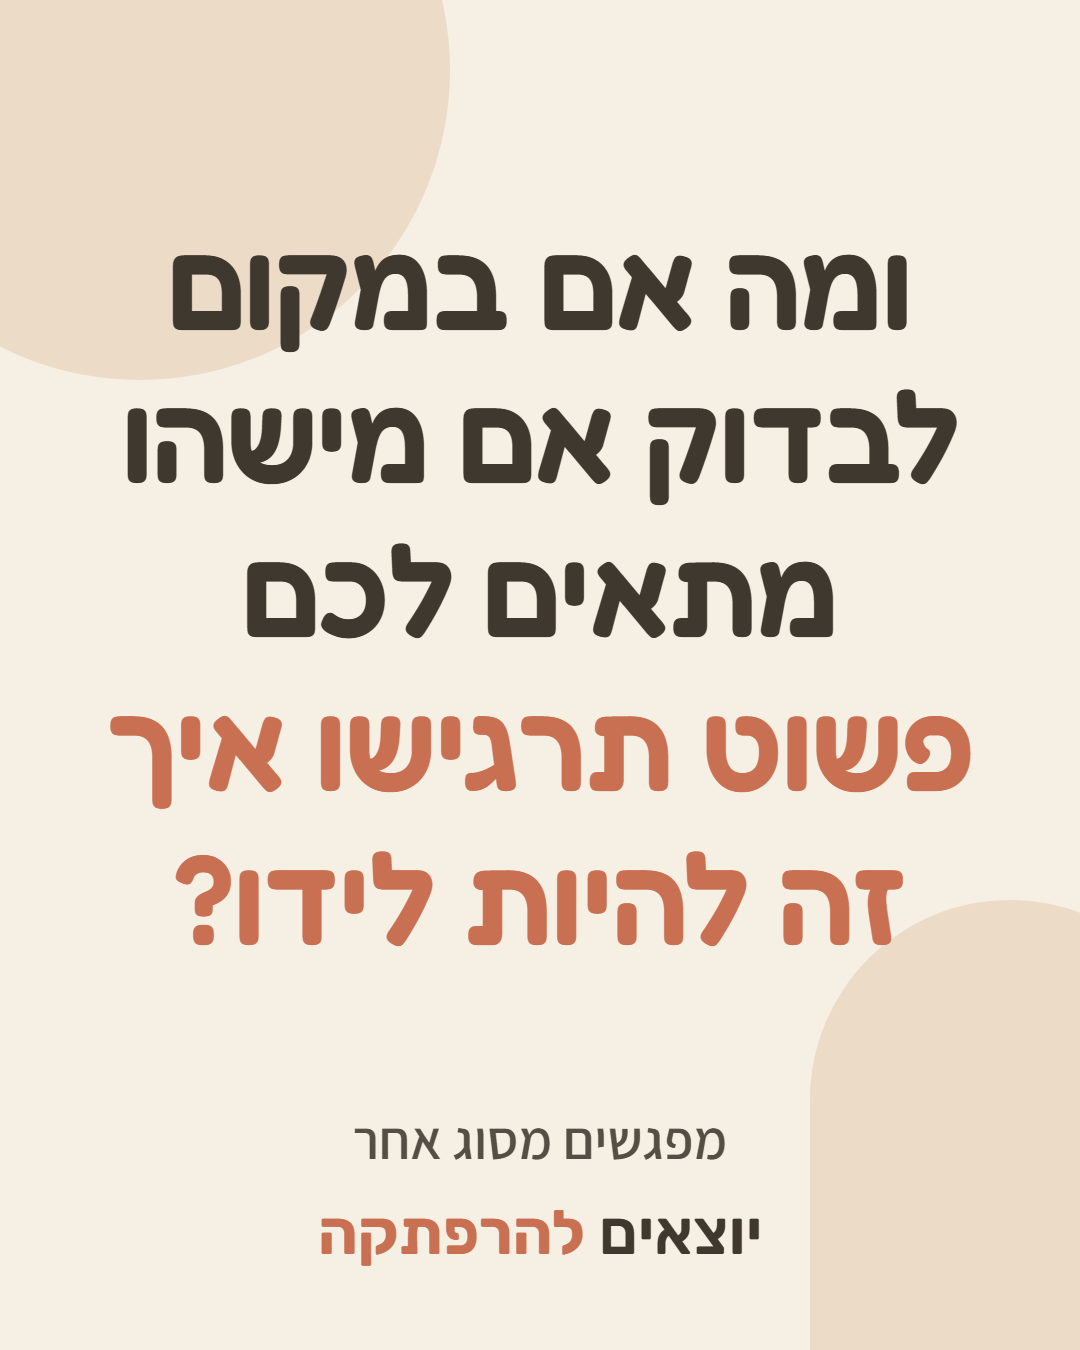
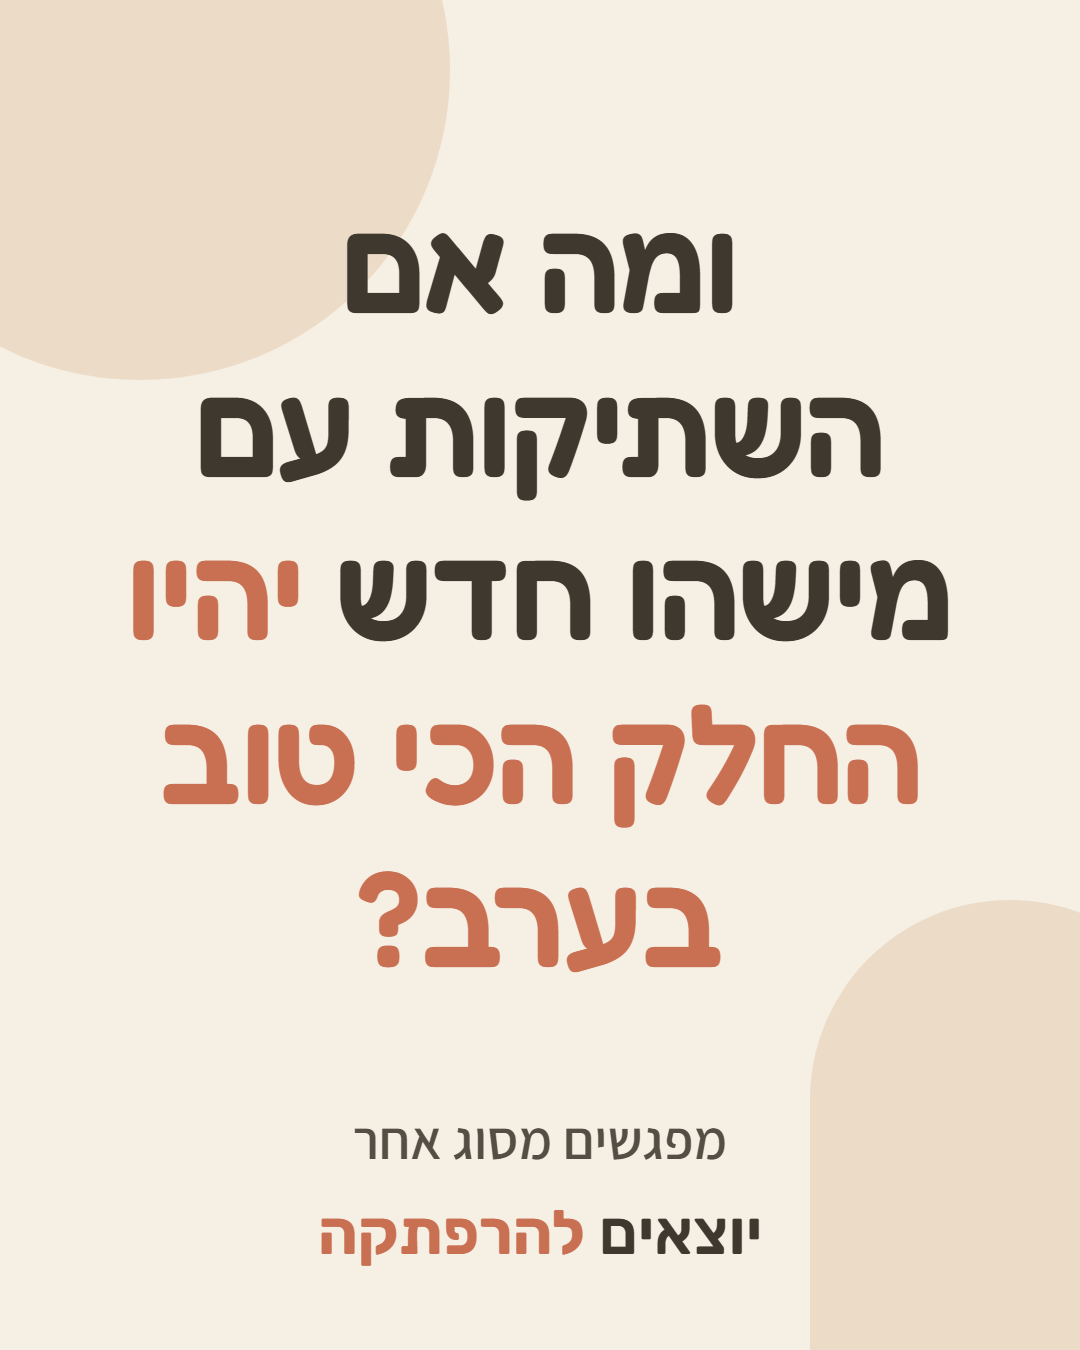
ads: ניסוח חדש ל-12 מודעות (18, 25, 29, 30, 32, 33, 36, 38, 39, 41, 45, 50), אותם מספרים

Changed region(s): [[0.0917, 0.4044, 0.9167, 0.7156], [0.0917, 0.1556, 0.8861, 0.3733]]

diff --git a/CLAUDE.md b/CLAUDE.md
@@ -9,7 +9,7 @@
 **בלי מקפים בטקסט** (לא — ולא –) — במקומם פסיק או נקודה. חריג היחיד: טווח הגילאים "30–49".
 **אין כפתור דביק (sticky CTA) בתחתית המסך** — הוסר לבקשת המשתמש; לא להחזיר.
 **סרטוני מודעה ב-`ads/`:** סרטון למודעה נשמר ב-`ads/video/ad-XX.mp4` ונרשם ב-`ads/videos.json` לפי **המספר הסידורי** של המודעה (`{"1": "ad-01-v4.mp4"}`, קובץ ידני; `build_ads.py` לא נוגע בו; **סרטון מעודכן = שם קובץ חדש** בגלל cache). בעמוד: לתא עם סרטון יש כפתור ▶ עגול בפינה השמאלית התחתונה של התמונה; לחיצה עליו או על התמונה מנגנת את הסרטון באותו תא (■ חוזר לתמונה, וגם בסוף הסרטון). בלי טאבים. הסרטונים נבנים עם הסקיל motion-studio בתיקייה `motion/ad-XX/` (ב-`.gitignore`; הפלט `out/final.mp4` מועתק ל-`ads/video/`). ה-Service Worker לא מיירט `.mp4` ובקשות Range (תשובות 206 לא נשמרות ב-cache).
-**עמוד `ads/`** (`noindex`): 50 תמונות מודעה 4:5 (1080×1350), טקסט בלבד בשני צבעים (בלי צילומים), גופן Fredoka. המשפטים ב-`ads/sentences.txt` (מה שב-`[ ]` מודגש בצבע ההדגשה); **מספר סידורי קבוע לכל טקסט** ב-`ads/registry.json` (מוצג בפינה של כל תמונה בעמוד, מחוץ לתמונה; לא משתנה לעולם, לא ממוחזר; טקסט חדש מקבל את המספר הבא — לא לערוך את הקובץ ידנית). `python ads/tools/build_ads.py` מייצר רק תמונות חסרות; `--all` מייצר הכל מחדש (אחרי עריכה: deploy). שינוי ניסוח של משפט קיים = טקסט חדש = מספר חדש. המשפטים במודעות הם בבקשת המשתמש וכוללים "דייט"/"אהבה" — החריגה מכללי הניסוח חלה רק על ה-ads, לא על האתר.
+**עמוד `ads/`** (`noindex`): 50 תמונות מודעה 4:5 (1080×1350), טקסט בלבד בשני צבעים (בלי צילומים), גופן Fredoka. המשפטים ב-`ads/sentences.txt` (מה שב-`[ ]` מודגש בצבע ההדגשה); **מספר סידורי קבוע לכל טקסט** ב-`ads/registry.json` (מוצג בפינה של כל תמונה בעמוד, מחוץ לתמונה; לא משתנה לעולם, לא ממוחזר; טקסט חדש מקבל את המספר הבא — לא לערוך את הקובץ ידנית). `python ads/tools/build_ads.py` מייצר רק תמונות חסרות; `--all` מייצר הכל מחדש (אחרי עריכה: deploy). שינוי ניסוח של משפט קיים = טקסט חדש = מספר חדש, **אלא אם המשתמש מבקש במפורש לשמור על המספור**: אז מחליפים את השורה ב-`sentences.txt` ואת הטקסט באותו מספר ב-`registry.json`, מוחקים את `img/ad-XX.png` ומריצים את `build_ads.py` (כך נעשה במודעות 18, 25, 29, 30, 32, 33, 36, 38, 39, 41, 45, 50). המשפטים במודעות הם בבקשת המשתמש וכוללים "דייט"/"אהבה" — החריגה מכללי הניסוח חלה רק על ה-ads, לא על האתר.
 **מיקום:** v3 הוא **עמוד הבית** (`index.html` בשורש, מאוקטובר 2026). **עורכים את `index.html` בשורש.** `v3/index.html` הוא עותק מאותו רגע (נתיבי `../images/`, `noindex`) — **כל שינוי בעמוד הבית חייב להיעשות גם ב-`v3/index.html`** — שני הקבצים אמורים להיות זהים בתוכן. דף ה"ערב" האחרון נמצא בהיסטוריית git (commit `17d2137`).
 
 ## קונספט ושפה (redesign v3, אוקטובר 2026)
